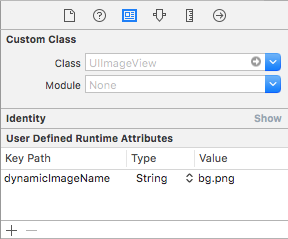
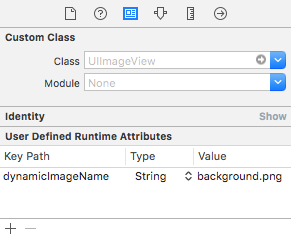
Update readme and image asset

diff --git a/README.md b/README.md
@@ -75,7 +75,7 @@ It is possible to directly set the image name within an UIImageView in the story
 
 To do so, you need to add an `User Defined Runtime Attribute` to the UIImageView object.
 
-The key should be `"dynamicImageName"` and the value the basic image filename `"bg.png"`:
+The key should be `"dynamicImageName"` and the value the basic image filename `"background.png"`:
 
 ![User Defined Runtime Attributes](Resources/userDefinedImageName.png)
 
@@ -91,14 +91,14 @@ Starting iOS 8:
 
     - (void)viewWillTransitionToSize:(CGSize)size withTransitionCoordinator:(id<UIViewControllerTransitionCoordinator>)coordinator {
         [super viewWillTransitionToSize:size withTransitionCoordinator:coordinator];
-        self.imageView.image = [UIImage imageNamed:@"bg.png" withTransitionSize:size];
+        self.imageView.image = [UIImage imageNamed:@"background.png" withTransitionSize:size];
     }
 
 On iOS 7 and earlier:
 
     - (void)didRotateFromInterfaceOrientation:(UIInterfaceOrientation)fromInterfaceOrientation {
         [super didRotateFromInterfaceOrientation:fromInterfaceOrientation];
-        self.imageView.image = [UIImage imageNamed:@"bg.png"];
+        self.imageView.image = [UIImage imageNamed:@"background.png"];
     }
 
 **Important:**  Those functions and logics are also required when integrating the picture using the storyboard.
